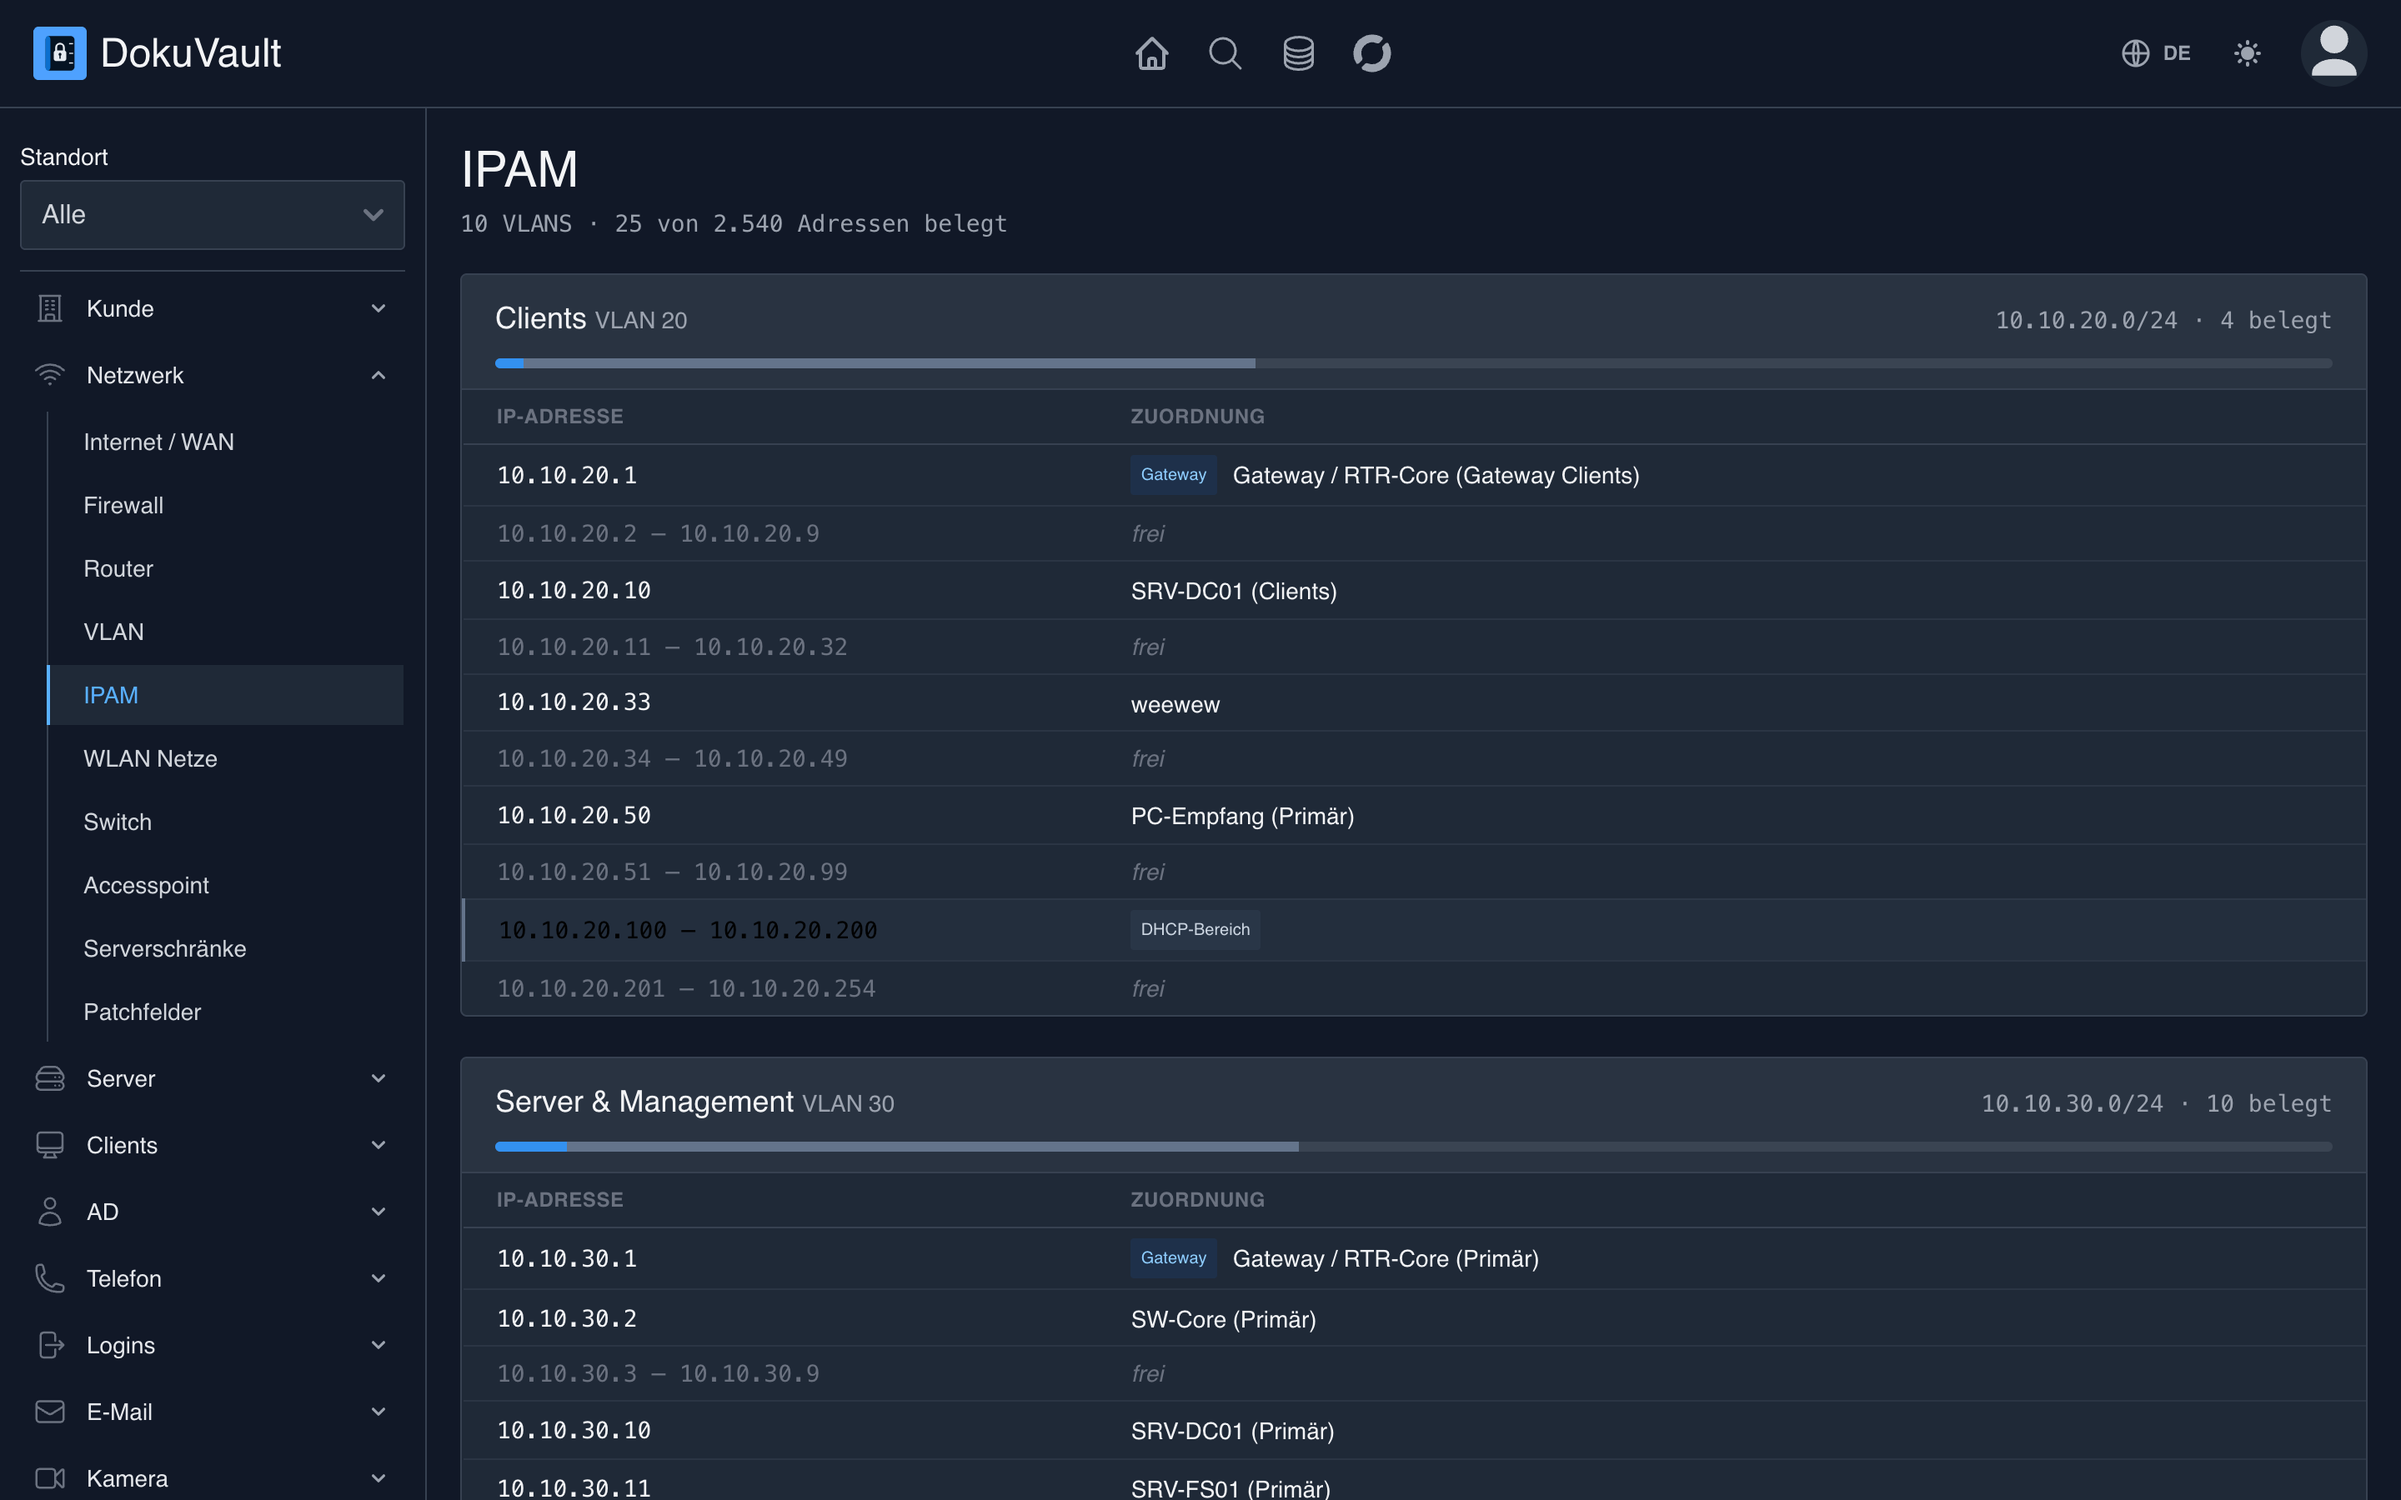
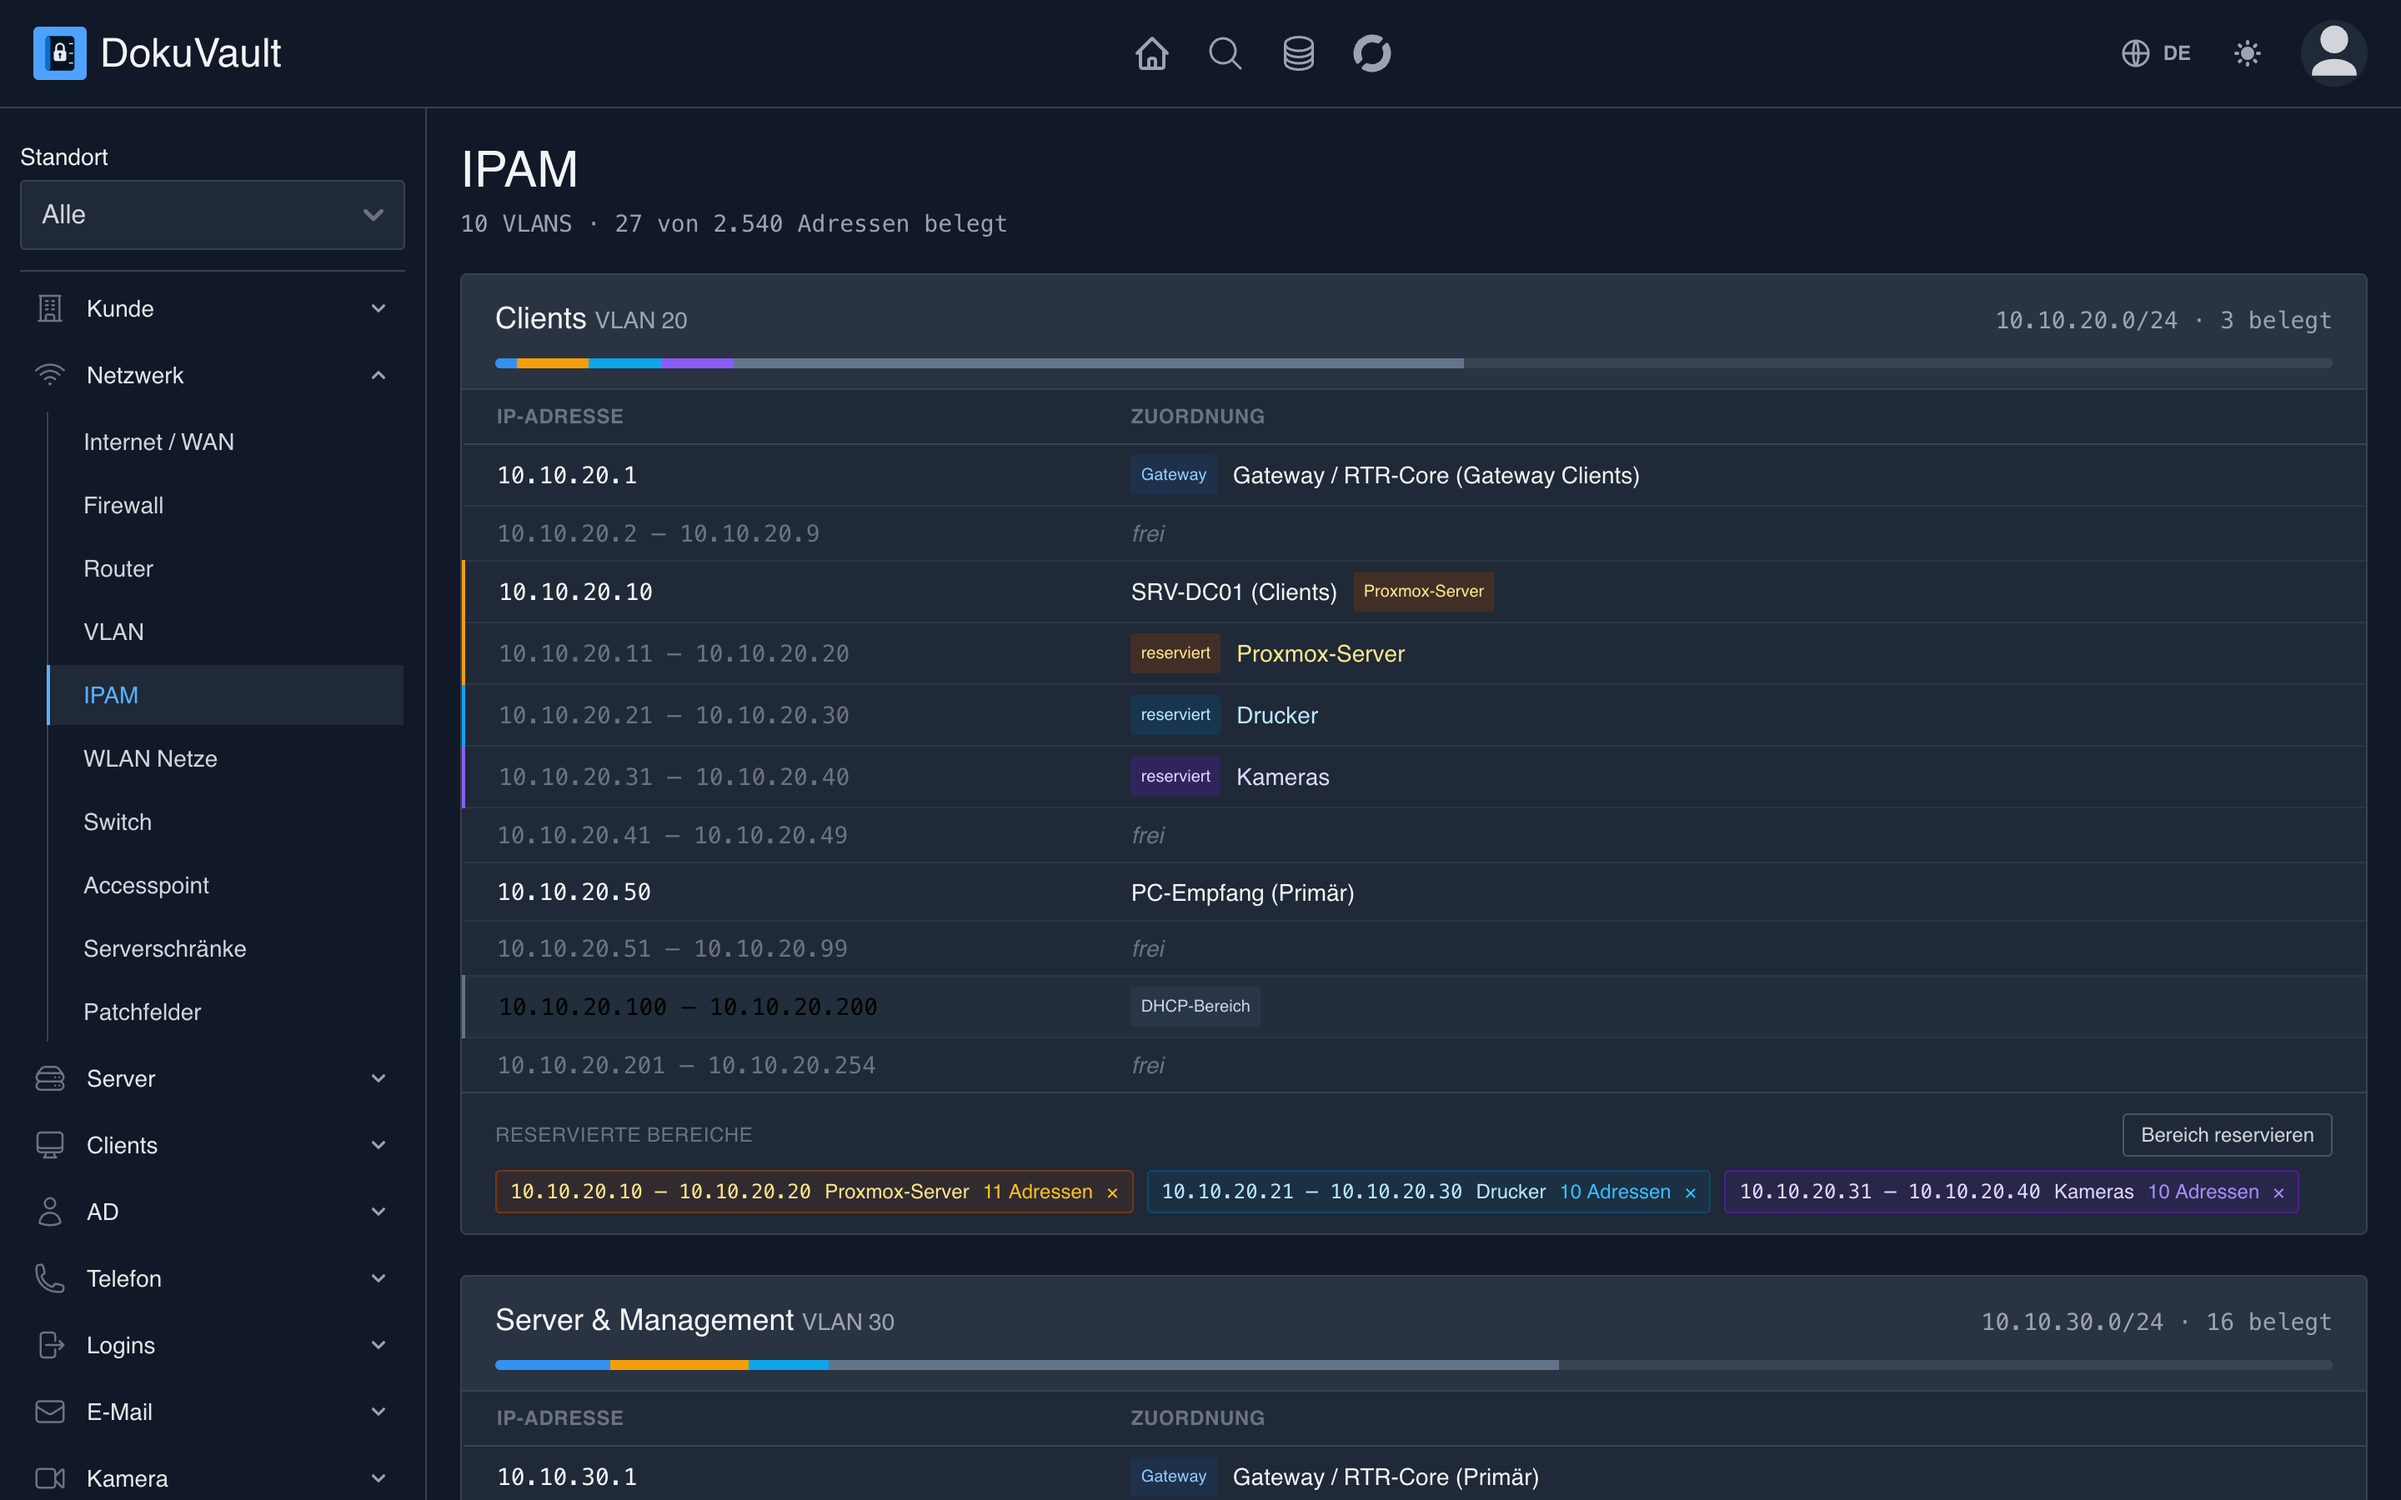
Screenshots neu aufgenommen - das IPAM zeigt jetzt die reservierten Bereiche
Alle 26 Bilder neu, deutsch und englisch, mit dem vorhandenen Werkzeug
(docs/screenshot-tool/capture.mjs) in 2880x1800 wie bisher.

Der Anlass war das IPAM: Der alte Screenshot zeigte belegte und freie
Adressen, die Reservierungen gab es noch nicht. Die Bildunterschrift und zwei
weitere Stellen in beiden READMEs sagten dasselbe und stimmen jetzt wieder.

Beim ersten Versuch stand im Bild ein VLAN namens "jjjj" mit 10.10.240.111/24
- ein Testrest von heute Nachmittag, kein Netz. Aus der
Entwicklungsdatenbank entfernt, dann neu aufgenommen.

Und die Demo-Daten bekommen die drei Bereiche mit. Ohne das zeigte der
Screenshot etwas, das eine frische Demo nicht hat - ein Versprechen, das die
Anwendung beim ersten Start nicht einloest. Der erste Bereich beginnt bewusst
bei .10, wo SRV-DC01 haengt: So ist im Demo-Datensatz zu sehen, dass eine
belegte Adresse belegt bleibt und der Block trotzdem durchlaeuft.

diff --git a/database/seeders/LocalDatabaseSeeder.php b/database/seeders/LocalDatabaseSeeder.php
@@ -20,6 +20,7 @@ use App\Models\Firewall;
 use App\Models\FTPServer;
 use App\Models\InternetConnection;
 use App\Models\IoTDevice;
+use App\Models\IpRange;
 use App\Models\LicenseAccess;
 use App\Models\LicenseSoftware;
 use App\Models\LicenseWindows;
@@ -199,6 +200,28 @@ class LocalDatabaseSeeder extends Seeder
             'dhcpStart' => '10.10.20.100',
             'dhcpEnd' => '10.10.20.200',
         ]);
+
+        // Reservierte Bereiche: Sie belegen nichts, sie halten fest, wofuer ein
+        // Stueck des Netzes gedacht ist. Drei aneinandergrenzende, damit im
+        // Demo-Datensatz sichtbar ist, dass jeder seine eigene Farbe bekommt -
+        // in einer Farbe waeren sie eine einzige Flaeche.
+        //
+        // Der erste beginnt bewusst bei .10, wo SRV-DC01 haengt: So sieht man,
+        // dass eine belegte Adresse im Bereich belegt bleibt und der Block
+        // trotzdem durchlaeuft.
+        foreach ([
+            ['10.10.20.10', '10.10.20.20', 'Proxmox-Server'],
+            ['10.10.20.21', '10.10.20.30', 'Drucker'],
+            ['10.10.20.31', '10.10.20.40', 'Kameras'],
+        ] as [$von, $bis, $wofuer]) {
+            IpRange::create([
+                'customer_id' => $customer->id,
+                'network_id' => $clientsVlan->id,
+                'from_ip' => $von,
+                'to_ip' => $bis,
+                'label' => $wofuer,
+            ]);
+        }
 
         $rtrCore = Router::factory()->create(['customer_id' => $customer->id, 'site_id' => $site1->id, 'name' => 'RTR-Core']);
         // Router hängt in mehreren VLANs -> zusätzliche Gateway-IP im Clients-VLAN

diff --git a/README.md b/README.md
@@ -43,7 +43,7 @@ MSPs lose time to scattered spreadsheets, stale wikis and “where did we write 
 | 🔌 **Patch panels** | Outlet number, room and target switch per port — “where does outlet A.12 go?” |
 | 🔎 **Global search** | Find a server, IP, serial number or MAC across **all** customers in seconds |
 | 🤖 **Auto-documentation** | One script on the device — the rest documents itself (Proxmox, Windows AD) |
-| 🌐 **IPAM** | Used and free IP addresses per VLAN at a glance, DHCP and gateway detection |
+| 🌐 **IPAM** | Used, free and reserved IP addresses per VLAN at a glance, DHCP and gateway detection |
 | 🔐 **Encrypted** | Every password stored encrypted, role-based access, audit log |
 | 📄 **PDF export** | Complete customer documentation as a PDF at the push of a button |
 | 🌙 **Light & dark** | Modern, responsive UI — on the phone too |
@@ -62,7 +62,7 @@ MSPs lose time to scattered spreadsheets, stale wikis and “where did we write 
   </tr>
   <tr>
     <td width="50%"><img src="docs/screenshots/en/computers.png" alt="Device list"><br><sub><b>Devices</b> – tidy cards, copy IP or serial number with one click</sub></td>
-    <td width="50%"><img src="docs/screenshots/en/ipam.png" alt="IPAM"><br><sub><b>IPAM</b> – used and free addresses per VLAN</sub></td>
+    <td width="50%"><img src="docs/screenshots/en/ipam.png" alt="IPAM"><br><sub><b>IPAM</b> – used, free and reserved addresses per VLAN, each range in its own colour</sub></td>
   </tr>
   <tr>
     <td width="50%"><img src="docs/screenshots/en/autodoc.png" alt="Auto-documentation"><br><sub><b>Auto-documentation</b> – create an agent token, run the script, done</sub></td>
@@ -155,7 +155,7 @@ Every token may **only document** — a leaked one grants no further access. Mor
   items is maintained in the admin area
 - **Patch panels** — outlet number, room and target switch with port number per port; the port rows
   are created automatically from the port count
-- **Network** — routers, switches, access points, Wi-Fi, VLANs, **IPAM**, internet/WAN, UTM firewalls; internet connections optionally with a routed subnet (CIDR) and gateway
+- **Network** — routers, switches, access points, Wi-Fi, VLANs, **IPAM** (with reserved address ranges per VLAN, colour-coded), internet/WAN, UTM firewalls; internet connections optionally with a routed subnet (CIDR) and gateway
 - **Active Directory** — domains, users, groups
 - **Communication** — phone systems, DECT, mailboxes, email archiving
 - **Security & certificates** — SSL/TLS certificates with expiry warnings

diff --git a/README.de.md b/README.de.md
@@ -44,7 +44,7 @@ immer aktuell.
 | 🔌 **Patchfelder** | Je Port die Dosennummer, den Raum und den Ziel-Switch – „wo hängt Dose A.12?" |
 | 🔎 **Globale Suche** | Server, IP, Seriennummer oder MAC über **alle** Kunden in Sekunden finden |
 | 🤖 **Auto-Dokumentation** | Ein Script auf dem Gerät – der Rest dokumentiert sich selbst (Proxmox, Windows AD) |
-| 🌐 **IPAM** | Belegte & freie IP-Adressen je VLAN auf einen Blick, DHCP- und Gateway-Erkennung |
+| 🌐 **IPAM** | Belegte, freie & reservierte IP-Adressen je VLAN auf einen Blick, DHCP- und Gateway-Erkennung |
 | 🔐 **Verschlüsselt** | Alle Passwörter verschlüsselt gespeichert, rollenbasierte Zugriffe, Audit-Log |
 | 📄 **PDF-Export** | Komplette Kundendokumentation auf Knopfdruck als PDF |
 | 🌙 **Hell & Dunkel** | Modernes, responsives UI – auch auf dem Smartphone |
@@ -63,7 +63,7 @@ immer aktuell.
   </tr>
   <tr>
     <td width="50%"><img src="docs/screenshots/computers.png" alt="Geräteliste"><br><sub><b>Geräte</b> – übersichtliche Karten, IP/Seriennummer per Klick kopieren</sub></td>
-    <td width="50%"><img src="docs/screenshots/ipam.png" alt="IPAM"><br><sub><b>IPAM</b> – belegte und freie Adressen je VLAN</sub></td>
+    <td width="50%"><img src="docs/screenshots/ipam.png" alt="IPAM"><br><sub><b>IPAM</b> – belegte, freie und reservierte Adressen je VLAN, jeder Bereich in eigener Farbe</sub></td>
   </tr>
   <tr>
     <td width="50%"><img src="docs/screenshots/autodoc.png" alt="Auto-Dokumentation"><br><sub><b>Auto-Dokumentation</b> – Agent-Token erzeugen, Script ausführen, fertig</sub></td>
@@ -160,7 +160,7 @@ Agenten folgen.
   Elemente wird im Adminbereich gepflegt
 - **Patchfelder** – je Port Dosennummer, Raum und Ziel-Switch samt Portnummer; die Portzeilen
   entstehen automatisch aus der Portanzahl
-- **Netzwerk** – Router, Switches, Access Points, WLAN, VLANs, **IPAM**, Internet/WAN, UTM-Firewalls; Internet-Anschlüsse optional mit geroutetem Netz (CIDR) und Gateway
+- **Netzwerk** – Router, Switches, Access Points, WLAN, VLANs, **IPAM** (mit reservierten Adressbereichen je VLAN, farblich getrennt), Internet/WAN, UTM-Firewalls; Internet-Anschlüsse optional mit geroutetem Netz (CIDR) und Gateway
 - **Active Directory** – Domains, Benutzer, Gruppen
 - **Kommunikation** – Telefonanlagen, DECT, E-Mail-Postfächer, E-Mail-Archivierung
 - **Sicherheit & Zertifikate** – SSL/TLS-Zertifikate mit Ablauf-Warnung
